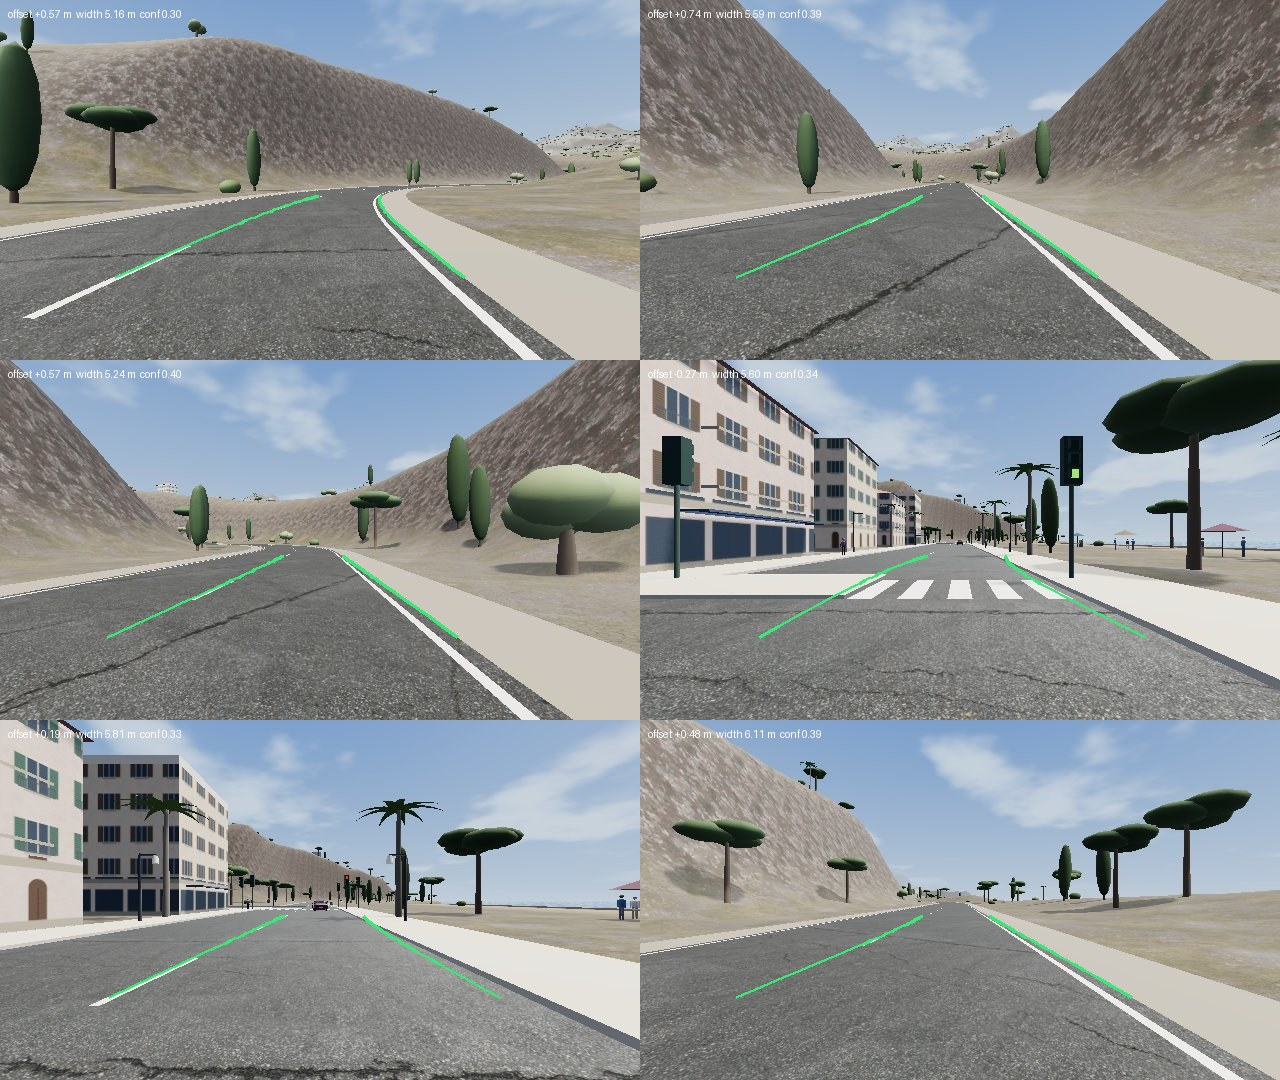
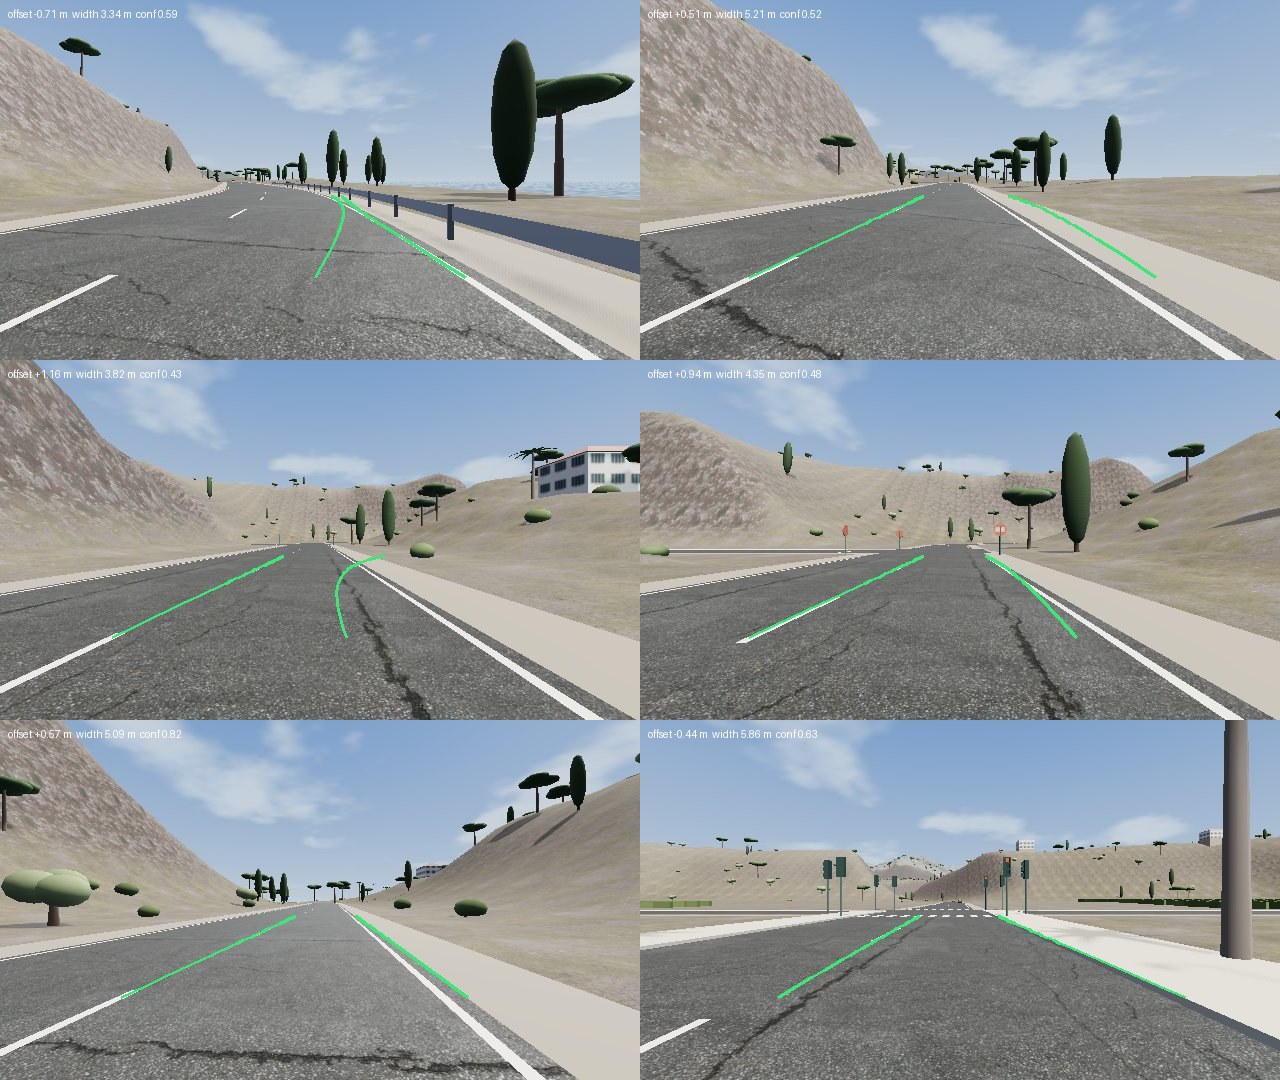
fix(perception): lanes read in 69% of frames; scored against the painted lane too, which explains the festival bias (#80)

diff --git a/benchmarks/eval_lanes.py b/benchmarks/eval_lanes.py
@@ -3,6 +3,12 @@
 Folders come from `benchmarks/capture_perception.py` (any mode): each frame carries the planner's
 own lane offset and half width, from the map and the true pose. Ground truth is used here only, to
 score. Every frame goes through one LaneTracker, as on the server; frames with a truth are scored.
+
+Two truths. "map": the planner's lane (lane.offset_m, half_width_m). "painted": the lane as painted,
+from the centre line to the edge line (rural roads, half - 0.35 m out) or the kerb (harbour and
+festival streets, half out), from the road under the car (captures with "road"; expressways, two
+lanes a side, are left out). They differ where the map's 6 m lane is wider than its paint (#60, #66):
+the first measures what the planner would get, the second whether the camera reads the paint.
 Reports, per folder and in all, how often the camera read a lane in that frame (conf >= --min-conf,
 not a held one), the offset and width errors of those (median, P90), how often the offset was off
 by more than 0.5 m, how many more frames only held an earlier lane, and the time per frame.
@@ -24,6 +30,19 @@ from PIL import Image, ImageDraw
 sys.path.insert(0, str(Path(__file__).resolve().parents[1]))  # this checkout, not an installed copy
 
 from jevpilot_vision.perception import LANE_FAR_M, LANE_NEAR_M, CameraModel, LaneTracker  # noqa: E402
+
+URBAN = {"harbour", "festival"}  # semif-world/roads.js: kerbs, no edge lines
+EDGE_INSET_M = 0.35  # semif-world/roads.js: rural edge lines at half - 0.35
+
+
+def painted(road: dict | None) -> dict | None:
+    """The painted lane under the car, in the planner's terms: offset right of its centre, width."""
+    if not road or road.get("kind") == "expressway" or road.get("width") is None or road.get("lateral_m") is None:
+        return None
+    edge = road["width"] / 2 - (0 if road["kind"] in URBAN else EDGE_INSET_M)
+    if not 0 < road["lateral_m"] < edge:
+        return None  # not in the right-hand lane (overtaking, a junction)
+    return {"offset_m": road["lateral_m"] - edge / 2, "width_m": edge, "kind": road["kind"]}
 
 
 def pick(xs: list[float], q: float) -> float:
@@ -60,6 +79,7 @@ def main() -> None:
     ap = argparse.ArgumentParser(description=__doc__.split("\n\n")[0])
     ap.add_argument("folders", nargs="+")
     ap.add_argument("--min-conf", type=float, default=0.3)
+    ap.add_argument("--truth", choices=["map", "painted"], default="map")
     ap.add_argument("--overlay", default="", help="save a sheet of frames with the fitted lines drawn")
     args = ap.parse_args()
     every, ms, shown = [], [], []
@@ -72,9 +92,15 @@ def main() -> None:
             t0 = time.perf_counter()
             lane = lanes.update(image, camera, row.get("t", 0.0))
             ms.append((time.perf_counter() - t0) * 1000.0)
-            truth = row.get("lane")
-            if not truth or truth.get("half_width_m") is None:
-                continue
+            if args.truth == "painted":
+                truth = painted(row.get("road"))
+                if not truth:
+                    continue
+                truth = {"offset_m": truth["offset_m"], "half_width_m": truth["width_m"] / 2}
+            else:
+                truth = row.get("lane")
+                if not truth or truth.get("half_width_m") is None:
+                    continue
             fresh = lane.get("held_s", 0.0) == 0.0
             got = lane["conf"] >= args.min_conf and fresh
             rows.append({"held": lane["conf"] > 0 and not fresh, "got": got, "offset": (lane.get("offset_m", 0) - truth["offset_m"]) if got else None,

diff --git a/benchmarks/capture_perception.py b/benchmarks/capture_perception.py
@@ -11,7 +11,8 @@ the render: the frame's encode time).
 
 Writes <out_dir>/<seed>-<route>/fNNNN.jpg and truth.json:
 [{"file", "t", "grab_ms", "ego_speed", "yaw_rps", "near": [{"type", "id", "ahead", "right", "closing", "depth"}],
-   "light": {"control", "signal", "distance_to_line_m"} or null, "lane": {"offset_m", "half_width_m"} or null}]
+   "light": {"control", "signal", "distance_to_line_m"} or null, "lane": {"offset_m", "half_width_m"} or null,
+   "road": {"kind", "width", "lateral_m"} or null}]
 in the ego frame (metres; closing in m/s along our heading, positive when the gap shrinks).
 Tuning seeds only (benchmarks/closed_loop_seeds.json): this is for looking into perception.
 """
@@ -56,7 +57,24 @@ _HOOK = r"""
         const light = inter && /signal|traffic_light/.test(String(inter.control || ""))
           ? { control: inter.control, signal: inter.signal ?? null, distance_to_line_m: inter.stop_line_ahead_m ?? inter.distance_to_line_m ?? null } : null;
         const lane = d0.lane && Number.isFinite(d0.lane.offset_m) ? { offset_m: d0.lane.offset_m, half_width_m: d0.lane.half_width_m } : null;
-        window.__cap.push({ light, lane, mode: window.SEMIF_DRIVE_MODE, t: value.t_ms / 1000, grab_ms: Math.round(performance.now() - value.t_ms), ego_speed: p.speed, yaw_rps: value.yaw_rps ?? 0,
+        // The road under the car (#80): its kind, width and where the car is across it (metres right
+        // of the centreline, facing the way the car drives), for the painted lane's truth.
+        let road = null, bestD = 1e9;
+        for (const rd of (s.world && s.world.connectorRoads) || []) {
+          const pts = rd.points;
+          for (let i = 0; i + 1 < pts.length; i += 2) {
+            const a = pts[i], b = pts[i + 1], dx = b.x - a.x, dz = b.z - a.z, len2 = dx * dx + dz * dz || 1;
+            const u = Math.max(0, Math.min(1, ((p.x - a.x) * dx + (p.z - a.z) * dz) / len2));
+            const qx = a.x + dx * u, qz = a.z + dz * u, dd = Math.hypot(p.x - qx, p.z - qz);
+            if (dd < bestD) {
+              const flip = dx * f[0] + dz * f[1] < 0 ? -1 : 1, n = Math.sqrt(len2);
+              const tx = (flip * dx) / n, tz = (flip * dz) / n;  // along the road, the way the car goes
+              bestD = dd;
+              road = { kind: rd.kind, width: rd.width, lateral_m: (p.x - qx) * -tz + (p.z - qz) * tx };
+            }
+          }
+        }
+        window.__cap.push({ light, lane, road, mode: window.SEMIF_DRIVE_MODE, t: value.t_ms / 1000, grab_ms: Math.round(performance.now() - value.t_ms), ego_speed: p.speed, yaw_rps: value.yaw_rps ?? 0,
           front: value.frames.front, near });
       }
     } catch (_) {}

diff --git a/jevpilot_vision/perception.py b/jevpilot_vision/perception.py
@@ -373,7 +373,9 @@ LANE_MIN_POINTS = 8  # rows a line needs to count
 LANE_WIDTH_M = (2.5, 8.0)  # a lane narrower or wider than this is two lines that are not one lane
 LANE_MAX_SLOPE = 0.3  # a lane line runs within about 17 degrees of the car (crosswalk stripes do not)
 LANE_KERB_M = 0.8  # a kerb: the road turns bright (pavement) and stays bright at least this far
-LANE_PARALLEL = 0.15  # the two lines of a lane run within this slope of each other
+LANE_PARALLEL = 0.2  # the two lines of a lane run within this slope of each other, 10 m out (on a bend too)
+LANE_RESID_M = 0.5  # a line's fit spread at which its confidence reaches zero
+LANE_FULL_SUPPORT = 0.4  # share of the rows a line covers for full confidence (a dashed line covers about half)
 LANE_INNER = 0.7  # a line between the car and a pair's line, this well supported, means the pair is too wide
 LANE_CLUTTER = 0.25  # the lane's two lines hold at least this share of all marking points, or conf falls
 
@@ -482,7 +484,8 @@ def lane_from_frame(image: np.ndarray, camera: "CameraModel", prior_width: Optio
     for left in (ln for ln in lines if ln["a"] < -0.5):
         for right_line in (ln for ln in lines if ln["a"] > 0.5):
             width = right_line["a"] - left["a"]
-            if not (LANE_WIDTH_M[0] <= width <= LANE_WIDTH_M[1]) or abs(left["b"] - right_line["b"]) > LANE_PARALLEL:
+            slope10 = lambda ln: ln["b"] + 2 * ln["c"] * 10.0  # noqa: E731
+            if not (LANE_WIDTH_M[0] <= width <= LANE_WIDTH_M[1]) or abs(slope10(left) - slope10(right_line)) > LANE_PARALLEL:
                 continue
             weaker = min(left["points"], right_line["points"])
             # the lane's own lines are the innermost: a well-supported line between the car and
@@ -498,7 +501,7 @@ def lane_from_frame(image: np.ndarray, camera: "CameraModel", prior_width: Optio
     support = min(left["points"], right_line["points"]) / len(ahead)
     spread = max(left["resid"], right_line["resid"])
     share = (left["points"] + right_line["points"]) / max(1, len(marks) + len(kerbs))  # low in clutter or noise
-    conf = max(0.0, min(1.0, support * 1.5)) * max(0.0, 1.0 - spread / 0.35) * min(1.0, share / LANE_CLUTTER)
+    conf = min(1.0, support / LANE_FULL_SUPPORT) * max(0.0, 1.0 - spread / LANE_RESID_M) * min(1.0, share / LANE_CLUTTER)
     return {
         **out,
         "offset_m": round(-(left["a"] + right_line["a"]) / 2.0, 3),
